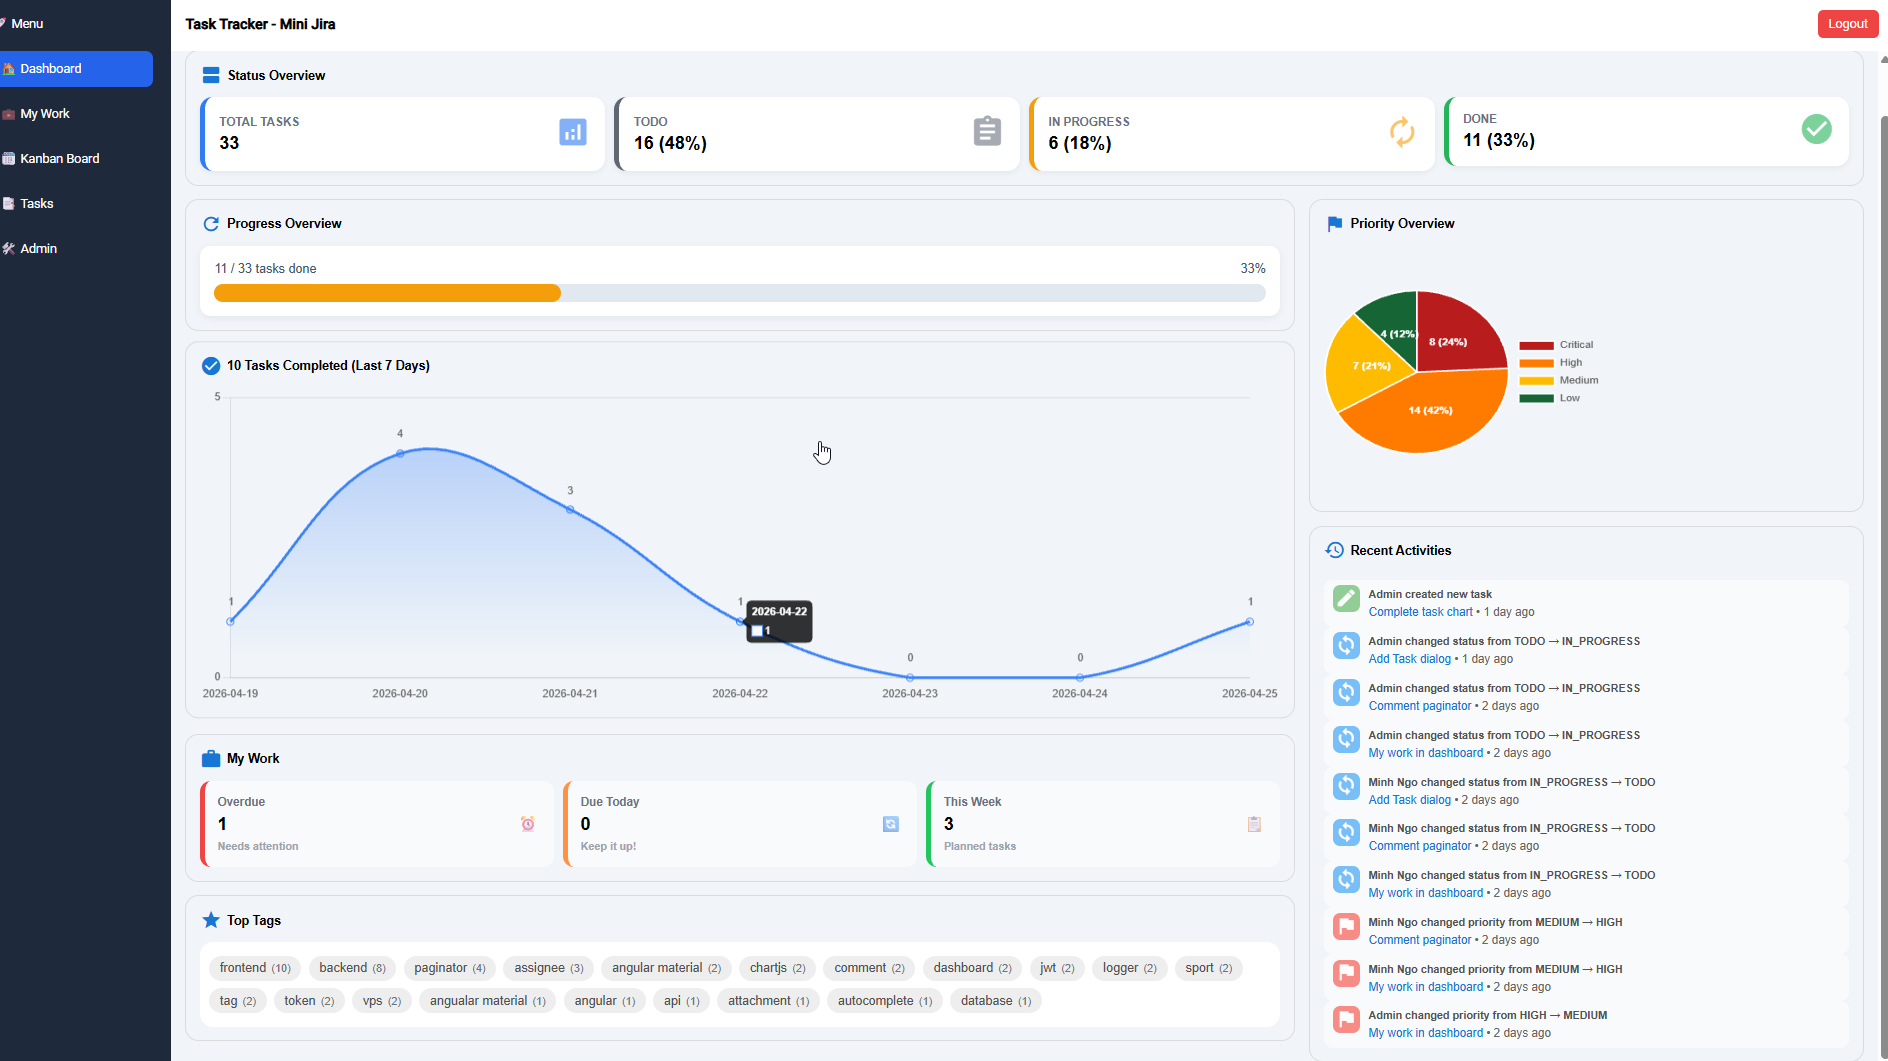
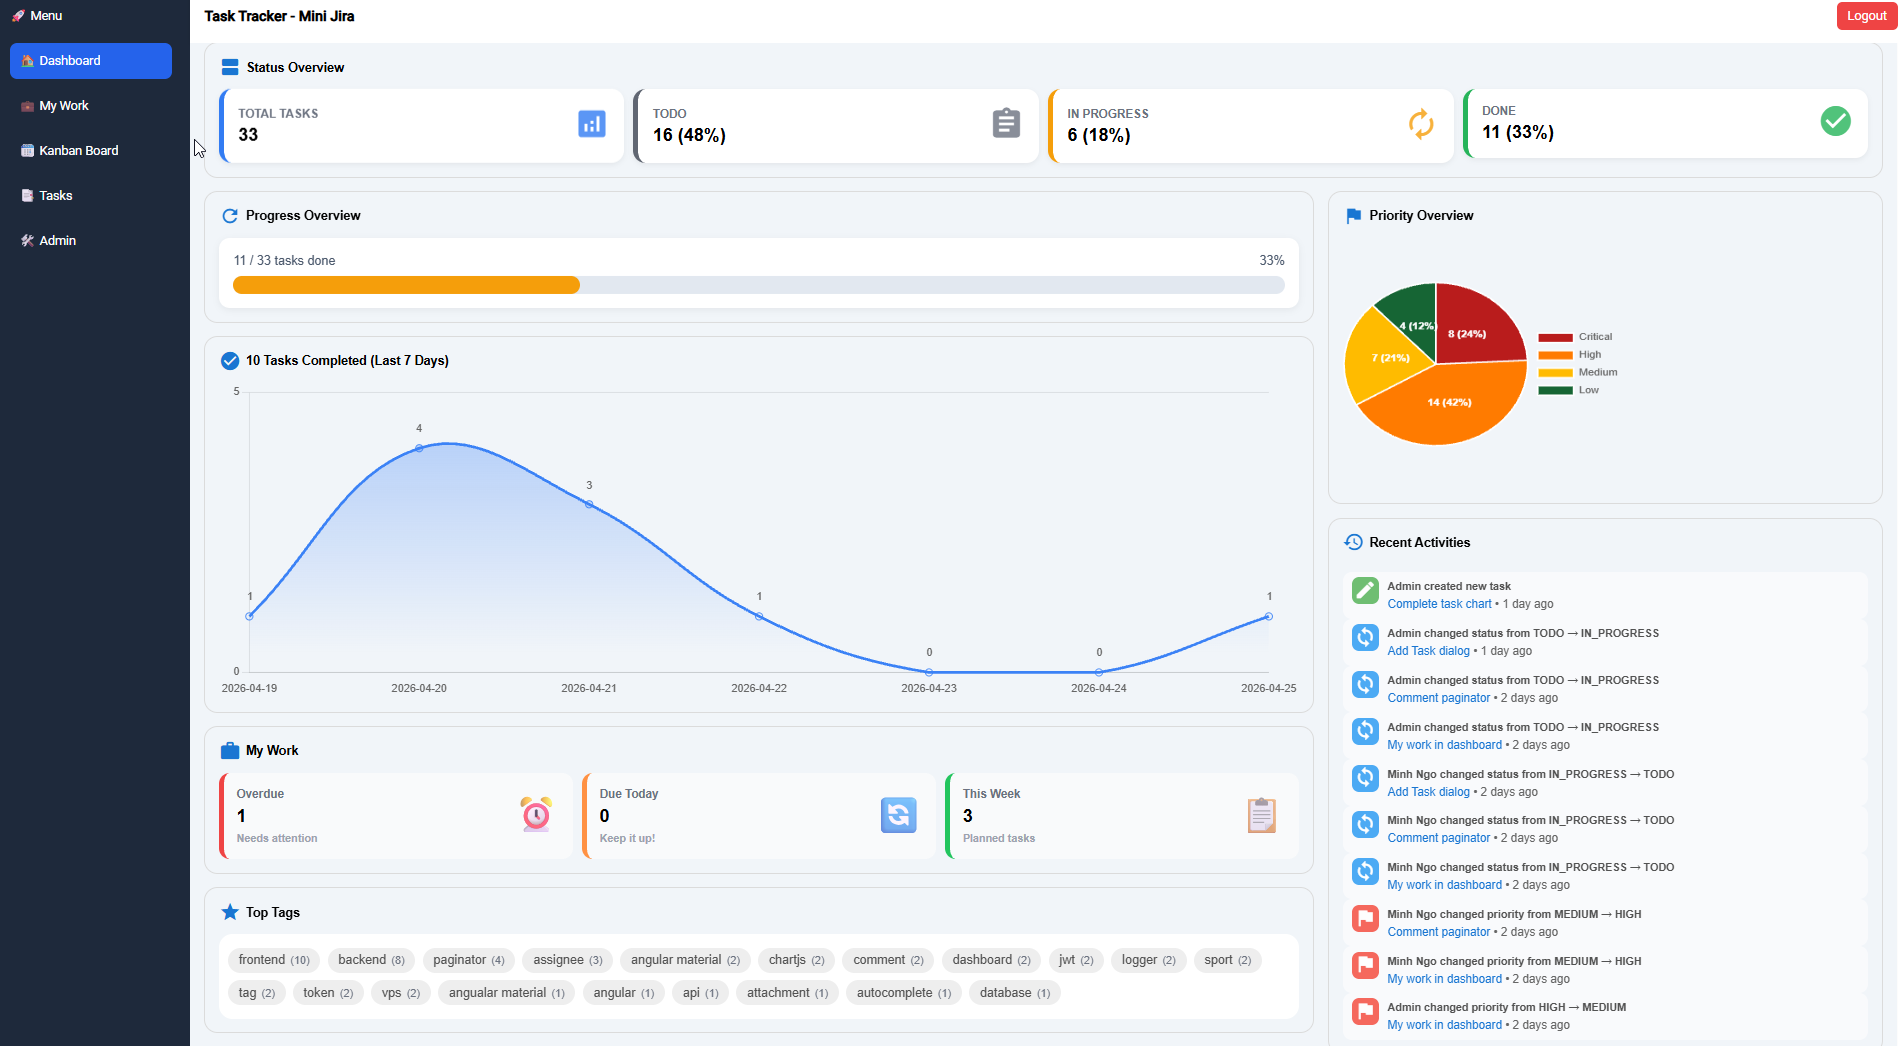
bug fix: done task chart some time is not laoded because of async calls

diff --git a/TaskTrackerFrontend/src/app/feature/dashboard-component/dashboard-component.ts b/TaskTrackerFrontend/src/app/feature/dashboard-component/dashboard-component.ts
@@ -137,12 +137,11 @@ export class DashboardComponent implements OnInit, AfterViewInit {
 
   ngOnInit(): void {
     this.logger.log('ngOnInit(): void');
-    this.loadRecentTasks();
+    this.loadRecentTasksAndStats();
     this.loadAssigneeList();
     // this.loadMyTasks();
     this.loadTopTags();
     this.loadMyWork();
-    this.loadCompleteTasks();
     this.loadActivities();
   }
 
@@ -161,7 +160,9 @@ export class DashboardComponent implements OnInit, AfterViewInit {
    *
    * @returns init chart in ui
    */
+  completeTaskChart!: Chart;
   initCompleteTaskChart() {
+    this.logger.log('initCompleteTaskChart() ');
     const ctx = this.completeChartCanvas.nativeElement.getContext('2d');
     if (!ctx) return;
     // gradient
@@ -169,7 +170,7 @@ export class DashboardComponent implements OnInit, AfterViewInit {
     gradient.addColorStop(0, 'rgba(59, 130, 246, 0.4)');
     gradient.addColorStop(1, 'rgba(59, 130, 246, 0)');
 
-    new Chart(ctx, {
+    this.completeTaskChart = new Chart(ctx, {
       type: 'line',
       data: {
         labels: Array.from(this.doneTaskMap.keys()),
@@ -209,6 +210,40 @@ export class DashboardComponent implements OnInit, AfterViewInit {
         },
       },
     });
+
+    // subscribe ở đây luôn
+    this.taskService.getCompleteTasks().subscribe({
+      next: (tasks) => {
+        tasks.forEach((t) => {
+          t = removeTimeFromUpdatedAt(t);
+        });
+
+        const grouped = tasks.reduce((acc, task) => {
+          // go over the array
+          const key = task.updatedAt || 'UNASSIGNED';
+          if (!acc.has(key)) {
+            acc.set(key, []);
+          }
+          acc.get(key)!.push(task);
+          return acc;
+        }, new Map<string, Task[]>());
+
+        this.totalDone = tasks.length;
+        ListOfLastDays().forEach((day) => {
+          this.doneTaskMap.set(day, grouped.get(day)?.length ?? '0');
+        });
+
+        for (const [key, value] of this.doneTaskMap) {
+          this.logger.log(key + '=' + value);
+        }
+
+        this.completeTaskChart.data.labels = Array.from(this.doneTaskMap.keys());
+        this.completeTaskChart.data.datasets[0].data = Array.from(this.doneTaskMap.values());
+        this.completeTaskChart.update();
+        this.cdr.detectChanges();
+        this.logger.log('initCompleteTaskChart() done!');
+      },
+    });
   }
 
   /**
@@ -221,7 +256,6 @@ export class DashboardComponent implements OnInit, AfterViewInit {
         tasks.forEach((t) => {
           t = removeTimeFromUpdatedAt(t);
         });
-        // console.log(JSON.stringify(tasks));
 
         const grouped = tasks.reduce((acc, task) => {
           // go over the array
@@ -233,18 +267,16 @@ export class DashboardComponent implements OnInit, AfterViewInit {
           return acc;
         }, new Map<string, Task[]>());
 
-        //this.logger.log(JSON.stringify(ListOfLastDays()));
-        //this.logger.log('Total: ' + tasks.length);
         this.totalDone = tasks.length;
         ListOfLastDays().forEach((day) => {
           this.doneTaskMap.set(day, grouped.get(day)?.length ?? '0');
-          //this.doneTaskMap.get(day)?.push(grouped.get(day)?.length ?? '0'):
-          // this.logger.log(day + '=' + JSON.stringify(grouped.get(day)?.length ?? '0'));
         });
 
         for (const [key, value] of this.doneTaskMap) {
           this.logger.log(key + '=' + value);
         }
+        this.cdr.detectChanges();
+        this.logger.log('loadCompleteTasks() done!');
       },
     });
   }
@@ -330,7 +362,7 @@ export class DashboardComponent implements OnInit, AfterViewInit {
   /**
    * loads tasks from backend and calcualte stats
    */
-  loadRecentTasks() {
+  loadRecentTasksAndStats() {
     this.logger.log('loadTaks() called!');
     // filtering and sorting at server side
     const params: any = {
@@ -532,6 +564,9 @@ export class DashboardComponent implements OnInit, AfterViewInit {
         return 'person';
       case 'DUE_DATE_CHANGED':
         return 'event';
+      case 'CREATED':
+        return 'open_in_new';
+
       default:
         return 'edit';
     }

diff --git a/TaskTrackerFrontend/src/app/feature/dashboard-component/dashboard-component.css b/TaskTrackerFrontend/src/app/feature/dashboard-component/dashboard-component.css
@@ -457,14 +457,14 @@
 /* icon */
 .icon {
   font-size: 40px;
-  opacity: 0.6;
+  opacity: 0.8;
 }
 
 .mat-icon-card {
   width: 40px;
   height: 40px;
   font-size: 40px;
-  opacity: 0.6;
+  opacity: 0.8;
 }
 
 .mat-icon.total {
@@ -542,7 +542,7 @@
 }
 
 /* ICON */
-.icon {
+.activitiy-icon {
   width: 30px;
   height: 30px;
   min-width: 30px;
@@ -554,30 +554,31 @@
   border-radius: 8px;
   color: white;
   font-size: 18px;
+  opacity: 0.8;
 }
 
 /* màu theo action */
-.icon.STATUS_CHANGED {
+.activitiy-icon.STATUS_CHANGED {
   background: #2196f3;
 }
 
-.icon.PRIORITY_CHANGED {
+.activitiy-icon.PRIORITY_CHANGED {
   background: #f44336;
 }
 
-.icon.ASSIGNED {
+.activitiy-icon.ASSIGNED {
   background: #9c27b0;
 }
 
-.icon.DUE_DATE_CHANGED {
+.activitiy-icon.DUE_DATE_CHANGED {
   background: #ff9800;
 }
 
-.icon.CREATED {
+.activitiy-icon.CREATED {
   background: #4caf50;
 }
 
-.icon.UPDATED {
+.activitiy-icon.UPDATED {
   background: #607d8b;
 }
 

diff --git a/TaskTrackerFrontend/src/app/app/app-utils.ts b/TaskTrackerFrontend/src/app/app/app-utils.ts
@@ -36,9 +36,9 @@ export function removeTimeFromUpdatedAt(task: Task): Task {
 export function ListOfLastDays(): string[] {
   let days : string[] = [];
   const today = new Date();
-  for (let i= 0; i<7; i++) {
+  for (let i= 0; i<8; i++) {
     const day =   new Date(today);
-    day.setDate(day.getDate() - (i +1));
+    day.setDate(day.getDate() - i);
     const str = day.toISOString().slice(0, 10);
     days.push(str);
   }

diff --git a/TaskTrackerFrontend/src/app/feature/dashboard-component/dashboard-component.html b/TaskTrackerFrontend/src/app/feature/dashboard-component/dashboard-component.html
@@ -167,7 +167,7 @@
           </div>
 
           <div class="card" class="activity-item" *ngFor="let item of activities">
-            <div class="icon" [ngClass]="item.action">
+            <div class="activitiy-icon" [ngClass]="item.action">
               <i class="material-icons">{{ getActivityIcon(item.action) }}</i>
             </div>
 

diff --git a/TaskTracker/src/main/java/com/minhduc/tasktracker/dto/DtoMapper.java b/TaskTracker/src/main/java/com/minhduc/tasktracker/dto/DtoMapper.java
@@ -73,7 +73,7 @@ public class DtoMapper {
 		}
 		default -> {
 			action = "UPDATED";
-			message = String.format("%s updated task", h.getChangedByFullName());
+			message = String.format("%s updated %s", h.getChangedByFullName(), h.getField());
 		}
 		}
 		return new ActivityDto(h.getTaskId(), h.getTaskTitle(), action, message, h.getUser(), h.getCreatedAt());
